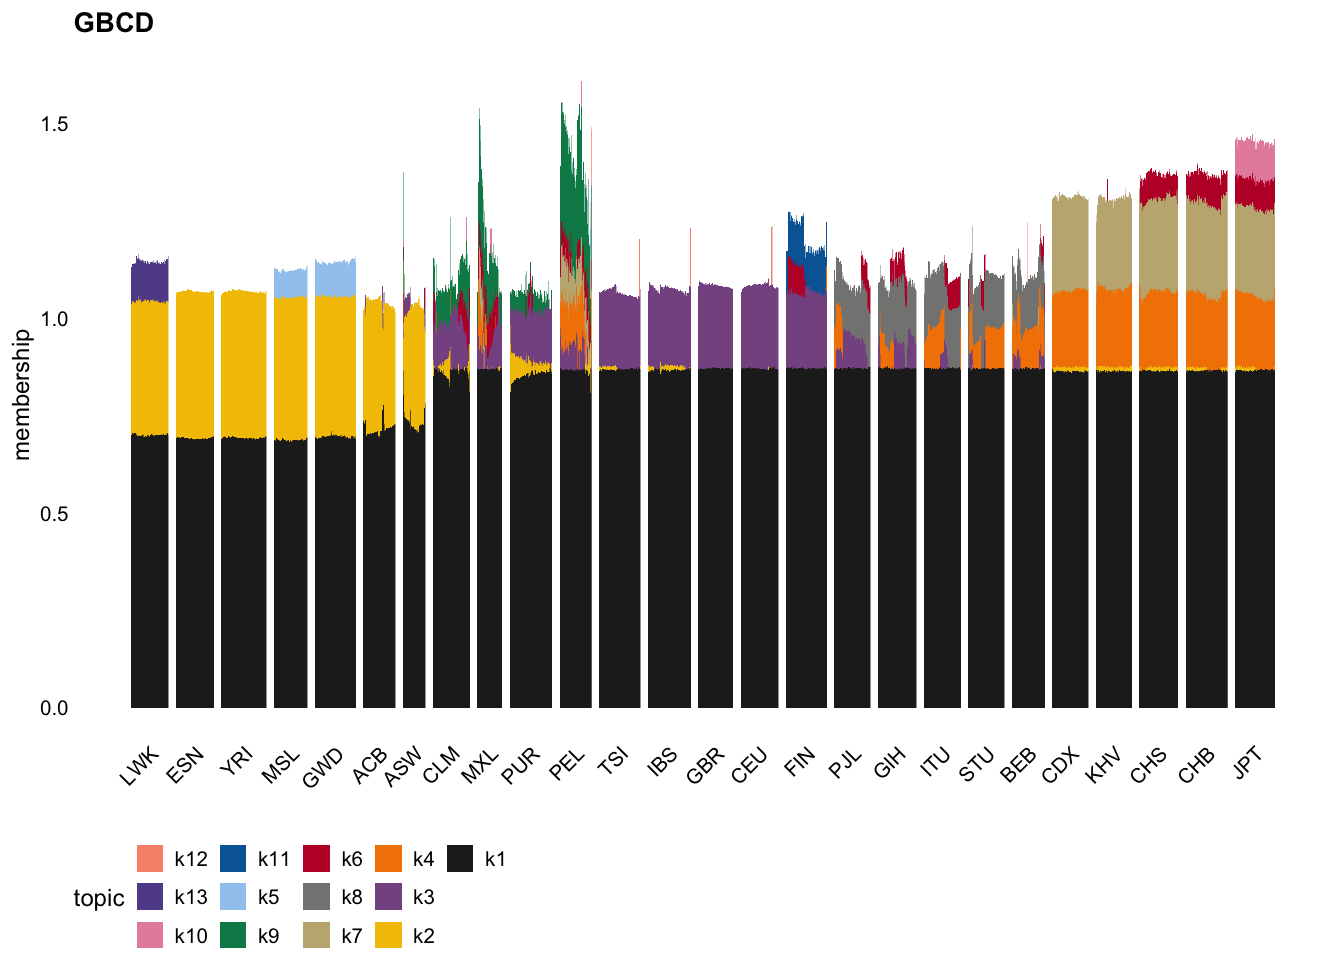
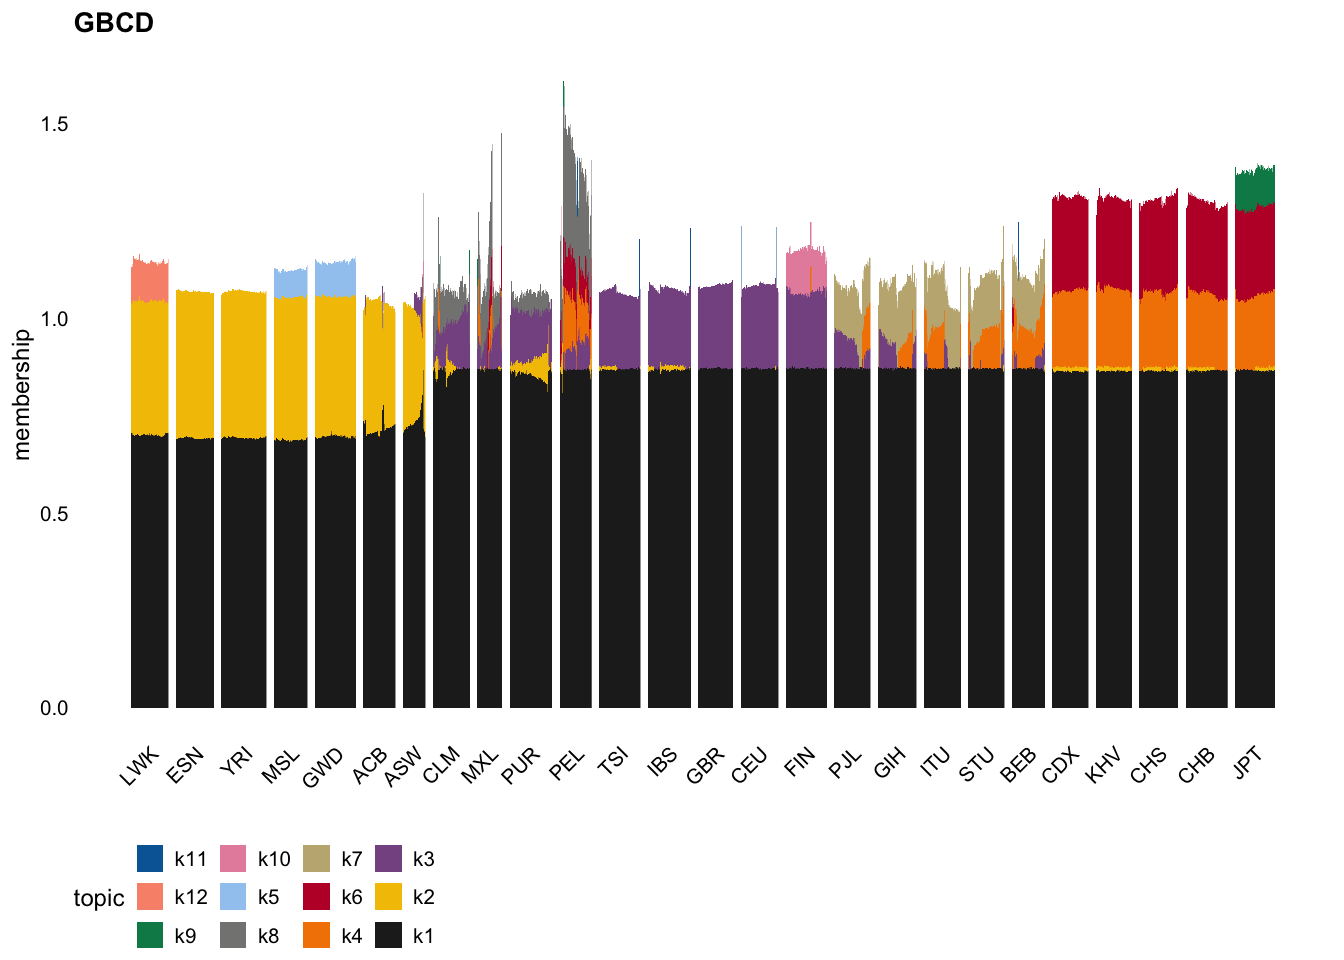
Build site.

diff --git a/docs/simplified_gbcd_analysis.html b/docs/simplified_gbcd_analysis.html
@@ -402,7 +402,7 @@ class="glyphicon glyphicon-ok text-success" aria-hidden="true"></span>
 <div class="tab-content">
 <div id="summary" class="tab-pane fade in active">
 <p>
-<strong>Last updated:</strong> 2025-10-20
+<strong>Last updated:</strong> 2025-10-22
 </p>
 <p>
 <strong>Checks:</strong> <span
@@ -533,15 +533,15 @@ project makes it easier to run your code on other machines.</p>
 <div class="panel panel-default">
 <div class="panel-heading">
 <p class="panel-title">
-<a data-toggle="collapse" data-parent="#workflowr-checks" href="#strongRepositoryversionstrongahrefhttpsgithubcomxxie6tgpanalysistreea68010c3ffef99cbb21337def9961454749fa0a4targetblanka68010ca">
+<a data-toggle="collapse" data-parent="#workflowr-checks" href="#strongRepositoryversionstrongahrefhttpsgithubcomxxie6tgpanalysistreeffecc49f3653eeba7e7cff140d51e98068eaa15etargetblankffecc49a">
 <span class="glyphicon glyphicon-ok text-success"
 aria-hidden="true"></span> <strong>Repository version:</strong>
-<a href="https://github.com/xxie6/tgp_analysis/tree/a68010c3ffef99cbb21337def9961454749fa0a4" target="_blank">a68010c</a>
+<a href="https://github.com/xxie6/tgp_analysis/tree/ffecc49f3653eeba7e7cff140d51e98068eaa15e" target="_blank">ffecc49</a>
 </a>
 </p>
 </div>
 <div
[2 lines of base64/hex data omitted]
 class="panel-collapse collapse">
 <div class="panel-body">
 <p>
@@ -551,7 +551,7 @@ reproducibility.
 </p>
 <p>
 The results in this page were generated with repository version
-<a href="https://github.com/xxie6/tgp_analysis/tree/a68010c3ffef99cbb21337def9961454749fa0a4" target="_blank">a68010c</a>.
+<a href="https://github.com/xxie6/tgp_analysis/tree/ffecc49f3653eeba7e7cff140d51e98068eaa15e" target="_blank">ffecc49</a>.
 See the <em>Past versions</em> tab to see a history of the changes made
 to the R Markdown and HTML files.
 </p>
@@ -617,6 +617,40 @@ Message
 </tr>
 </thead>
 <tbody>
+<tr>
+<td>
+Rmd
+</td>
+<td>
+<a href="https://github.com/xxie6/tgp_analysis/blob/ffecc49f3653eeba7e7cff140d51e98068eaa15e/analysis/simplified_gbcd_analysis.Rmd" target="_blank">ffecc49</a>
+</td>
+<td>
+Annie Xie
+</td>
+<td>
+2025-10-22
+</td>
+<td>
+Update simplified gbcd analysis
+</td>
+</tr>
+<tr>
+<td>
+html
+</td>
+<td>
+<a href="https://rawcdn.githack.com/xxie6/tgp_analysis/1abc1a3a71542274fd5498a89f54d2952a497a19/docs/simplified_gbcd_analysis.html" target="_blank">1abc1a3</a>
+</td>
+<td>
+Annie Xie
+</td>
+<td>
+2025-10-20
+</td>
+<td>
+Build site.
+</td>
+</tr>
 <tr>
 <td>
 Rmd
@@ -875,7 +909,44 @@ tgp_cov_fit_scaled_F &lt;- tgp_cov_fit_scaled$F %*% diag(sqrt(tgp_cov_fit_scaled
 factor_correlations &lt;- diag(cor(tgp_cov_fit_scaled_L, tgp_cov_fit_scaled_F))
 hist(factor_correlations, main = &quot;Histogram of Correlations&quot;, xlab = &#39;Correlations&#39;)</code></pre>
 <p><img src="figure/simplified_gbcd_analysis.Rmd/filter_factors-1.png" width="672" style="display: block; margin: auto;" /></p>
-<pre class="r"><code>factor_keep &lt;- factor_correlations &gt; 0.5</code></pre>
+<p>
+<button type="button" class="btn btn-default btn-xs btn-workflowr btn-workflowr-fig" data-toggle="collapse" data-target="#fig-filter_factors-1">
+Past versions of filter_factors-1.png
+</button>
+</p>
+<div id="fig-filter_factors-1" class="collapse">
+<div class="table-responsive">
+<table class="table table-condensed table-hover">
+<thead>
+<tr>
+<th>
+Version
+</th>
+<th>
+Author
+</th>
+<th>
+Date
+</th>
+</tr>
+</thead>
+<tbody>
+<tr>
+<td>
+<a href="https://github.com/xxie6/tgp_analysis/blob/1abc1a3a71542274fd5498a89f54d2952a497a19/docs/figure/simplified_gbcd_analysis.Rmd/filter_factors-1.png" target="_blank">1abc1a3</a>
+</td>
+<td>
+Annie Xie
+</td>
+<td>
+2025-10-20
+</td>
+</tr>
+</tbody>
+</table>
+</div>
+</div>
+<pre class="r"><code>factor_keep &lt;- factor_correlations &gt; 0.8</code></pre>
 <pre class="r"><code>tgp_cov_fit_filtered_scaled_L &lt;- tgp_cov_fit_scaled_L[, factor_keep]</code></pre>
 </div>
 <div id="visualizing-the-results" class="section level1">
@@ -894,32 +965,32 @@ p1 &lt;- structure_plot(L,grouping = tgp_meta$pop,
                      colors = factor_colors,
                      gap = 16,verbose = FALSE) +
   labs(y = &quot;membership&quot;,title = &quot;GBCD&quot;)</code></pre>
-<pre><code>Running tsne on 77 x 13 matrix.</code></pre>
-<pre><code>Running tsne on 80 x 13 matrix.</code></pre>
-<pre><code>Running tsne on 94 x 13 matrix.</code></pre>
-<pre><code>Running tsne on 70 x 13 matrix.</code></pre>
-<pre><code>Running tsne on 86 x 13 matrix.</code></pre>
-<pre><code>Running tsne on 67 x 13 matrix.</code></pre>
-<pre><code>Running tsne on 47 x 13 matrix.</code></pre>
-<pre><code>Running tsne on 77 x 13 matrix.</code></pre>
-<pre><code>Running tsne on 52 x 13 matrix.</code></pre>
-<pre><code>Running tsne on 89 x 13 matrix.</code></pre>
-<pre><code>Running tsne on 67 x 13 matrix.</code></pre>
-<pre><code>Running tsne on 86 x 13 matrix.</code></pre>
-<pre><code>Running tsne on 90 x 13 matrix.</code></pre>
-<pre><code>Running tsne on 73 x 13 matrix.</code></pre>
-<pre><code>Running tsne on 79 x 13 matrix.</code></pre>
-<pre><code>Running tsne on 86 x 13 matrix.</code></pre>
-<pre><code>Running tsne on 75 x 13 matrix.</code></pre>
-<pre><code>Running tsne on 81 x 13 matrix.</code></pre>
-<pre><code>Running tsne on 77 x 13 matrix.</code></pre>
-<pre><code>Running tsne on 75 x 13 matrix.</code></pre>
-<pre><code>Running tsne on 69 x 13 matrix.</code></pre>
-<pre><code>Running tsne on 76 x 13 matrix.</code></pre>
-<pre><code>Running tsne on 75 x 13 matrix.</code></pre>
-<pre><code>Running tsne on 81 x 13 matrix.</code></pre>
-<pre><code>Running tsne on 88 x 13 matrix.</code></pre>
-<pre><code>Running tsne on 83 x 13 matrix.</code></pre>
+<pre><code>Running tsne on 77 x 12 matrix.</code></pre>
+<pre><code>Running tsne on 80 x 12 matrix.</code></pre>
+<pre><code>Running tsne on 94 x 12 matrix.</code></pre>
+<pre><code>Running tsne on 70 x 12 matrix.</code></pre>
+<pre><code>Running tsne on 86 x 12 matrix.</code></pre>
+<pre><code>Running tsne on 67 x 12 matrix.</code></pre>
+<pre><code>Running tsne on 47 x 12 matrix.</code></pre>
+<pre><code>Running tsne on 77 x 12 matrix.</code></pre>
+<pre><code>Running tsne on 52 x 12 matrix.</code></pre>
+<pre><code>Running tsne on 89 x 12 matrix.</code></pre>
+<pre><code>Running tsne on 67 x 12 matrix.</code></pre>
+<pre><code>Running tsne on 86 x 12 matrix.</code></pre>
+<pre><code>Running tsne on 90 x 12 matrix.</code></pre>
+<pre><code>Running tsne on 73 x 12 matrix.</code></pre>
+<pre><code>Running tsne on 79 x 12 matrix.</code></pre>
+<pre><code>Running tsne on 86 x 12 matrix.</code></pre>
+<pre><code>Running tsne on 75 x 12 matrix.</code></pre>
+<pre><code>Running tsne on 81 x 12 matrix.</code></pre>
+<pre><code>Running tsne on 77 x 12 matrix.</code></pre>
+<pre><code>Running tsne on 75 x 12 matrix.</code></pre>
+<pre><code>Running tsne on 69 x 12 matrix.</code></pre>
+<pre><code>Running tsne on 76 x 12 matrix.</code></pre>
+<pre><code>Running tsne on 75 x 12 matrix.</code></pre>
+<pre><code>Running tsne on 81 x 12 matrix.</code></pre>
+<pre><code>Running tsne on 88 x 12 matrix.</code></pre>
+<pre><code>Running tsne on 83 x 12 matrix.</code></pre>
 <pre><code>Warning: `aes_string()` was deprecated in ggplot2 3.0.0.
 ℹ Please use tidy evaluation idioms with `aes()`.
 ℹ See also `vignette(&quot;ggplot2-in-packages&quot;)` for more information.
@@ -955,6 +1026,17 @@ Date
 <tbody>
 <tr>
 <td>
+<a href="https://github.com/xxie6/tgp_analysis/blob/1abc1a3a71542274fd5498a89f54d2952a497a19/docs/figure/simplified_gbcd_analysis.Rmd/structure_plot_L-1.png" target="_blank">1abc1a3</a>
+</td>
+<td>
+Annie Xie
+</td>
+<td>
+2025-10-20
+</td>
+</tr>
+<tr>
+<td>
 <a href="https://github.com/xxie6/tgp_analysis/blob/6114ba2739c81ab24efe3d77045023e6145b3de1/docs/figure/simplified_gbcd_analysis.Rmd/structure_plot_L-1.png" target="_blank">6114ba2</a>
 </td>
 <td>
@@ -986,32 +1068,32 @@ our structure plot:</p>
                      colors = factor_colors[-1],
                      gap = 16,verbose = FALSE) +
   labs(y = &quot;membership&quot;,title = &quot;GBCD&quot;)</code></pre>
-<pre><code>Running tsne on 82 x 12 matrix.</code></pre>
-<pre><code>Running tsne on 84 x 12 matrix.</code></pre>
-<pre><code>Running tsne on 85 x 12 matrix.</code></pre>
-<pre><code>Running tsne on 65 x 12 matrix.</code></pre>
-<pre><code>Running tsne on 94 x 12 matrix.</code></pre>
-<pre><code>Running tsne on 75 x 12 matrix.</code></pre>
-<pre><code>Running tsne on 45 x 12 matrix.</code></pre>
-<pre><code>Running tsne on 81 x 12 matrix.</code></pre>
-<pre><code>Running tsne on 51 x 12 matrix.</code></pre>
-<pre><code>Running tsne on 80 x 12 matrix.</code></pre>
-<pre><code>Running tsne on 66 x 12 matrix.</code></pre>
-<pre><code>Running tsne on 88 x 12 matrix.</code></pre>
-<pre><code>Running tsne on 90 x 12 matrix.</code></pre>
-<pre><code>Running tsne on 72 x 12 matrix.</code></pre>
-<pre><code>Running tsne on 81 x 12 matrix.</code></pre>
-<pre><code>Running tsne on 79 x 12 matrix.</code></pre>
-<pre><code>Running tsne on 77 x 12 matrix.</code></pre>
-<pre><code>Running tsne on 83 x 12 matrix.</code></pre>
-<pre><code>Running tsne on 85 x 12 matrix.</code></pre>
-<pre><code>Running tsne on 74 x 12 matrix.</code></pre>
-<pre><code>Running tsne on 70 x 12 matrix.</code></pre>
-<pre><code>Running tsne on 74 x 12 matrix.</code></pre>
-<pre><code>Running tsne on 83 x 12 matrix.</code></pre>
-<pre><code>Running tsne on 79 x 12 matrix.</code></pre>
-<pre><code>Running tsne on 76 x 12 matrix.</code></pre>
-<pre><code>Running tsne on 81 x 12 matrix.</code></pre>
+<pre><code>Running tsne on 82 x 11 matrix.</code></pre>
+<pre><code>Running tsne on 84 x 11 matrix.</code></pre>
+<pre><code>Running tsne on 85 x 11 matrix.</code></pre>
+<pre><code>Running tsne on 65 x 11 matrix.</code></pre>
+<pre><code>Running tsne on 94 x 11 matrix.</code></pre>
+<pre><code>Running tsne on 75 x 11 matrix.</code></pre>
+<pre><code>Running tsne on 45 x 11 matrix.</code></pre>
+<pre><code>Running tsne on 81 x 11 matrix.</code></pre>
+<pre><code>Running tsne on 51 x 11 matrix.</code></pre>
+<pre><code>Running tsne on 80 x 11 matrix.</code></pre>
+<pre><code>Running tsne on 66 x 11 matrix.</code></pre>
+<pre><code>Running tsne on 88 x 11 matrix.</code></pre>
+<pre><code>Running tsne on 90 x 11 matrix.</code></pre>
+<pre><code>Running tsne on 72 x 11 matrix.</code></pre>
+<pre><code>Running tsne on 81 x 11 matrix.</code></pre>
+<pre><code>Running tsne on 79 x 11 matrix.</code></pre>
+<pre><code>Running tsne on 77 x 11 matrix.</code></pre>
+<pre><code>Running tsne on 83 x 11 matrix.</code></pre>
+<pre><code>Running tsne on 85 x 11 matrix.</code></pre>
+<pre><code>Running tsne on 74 x 11 matrix.</code></pre>
+<pre><code>Running tsne on 70 x 11 matrix.</code></pre>
+<pre><code>Running tsne on 74 x 11 matrix.</code></pre>
+<pre><code>Running tsne on 83 x 11 matrix.</code></pre>
+<pre><code>Running tsne on 79 x 11 matrix.</code></pre>
+<pre><code>Running tsne on 76 x 11 matrix.</code></pre>
+<pre><code>Running tsne on 81 x 11 matrix.</code></pre>
 <pre class="r"><code>p2</code></pre>
 <p><img src="figure/simplified_gbcd_analysis.Rmd/structure_plot_wout_k1-1.png" width="672" style="display: block; margin: auto;" /></p>
 <p>
@@ -1036,6 +1118,17 @@ Date
 </tr>
 </thead>
 <tbody>
+<tr>
+<td>
+<a href="https://github.com/xxie6/tgp_analysis/blob/1abc1a3a71542274fd5498a89f54d2952a497a19/docs/figure/simplified_gbcd_analysis.Rmd/structure_plot_wout_k1-1.png" target="_blank">1abc1a3</a>
+</td>
+<td>
+Annie Xie
+</td>
+<td>
+2025-10-20
+</td>
+</tr>
 <tr>
 <td>
 <a href="https://github.com/xxie6/tgp_analysis/blob/6114ba2739c81ab24efe3d77045023e6145b3de1/docs/figure/simplified_gbcd_analysis.Rmd/structure_plot_wout_k1-1.png" target="_blank">6114ba2</a>
@@ -1063,7 +1156,7 @@ Annie Xie
 </div>
 </div>
 <p>From this plot, we can interpret the components of our decomposition.
-For example, factors 2, 7, and 8 (“k2”, “k7”, and “k8” in the plot)
+For example, factors 2, 6, and 7 (“k2”, “k6”, and “k7” in the plot)
 primarily capture the Africa super-population, East Asia
 super-population, and South Asian super-population, respectively. Other
 factors highlight components shared across super-populations. For
@@ -1073,23 +1166,21 @@ super-populations.</p>
 populations. For example, if we take a closer look at Japanese in Tokyo,
 Japan (JPT), we see that most of the components match up with those of
 the other East Asian populations. However, Japan has an additional
-component, factor 10, which differentiates it from the other East Asian
+component, factor 9, which differentiates it from the other East Asian
 populations. Another example is Finnish in Finland (FIN). Finland
 contains one component, factor 3, which is shared with other European
-populations. Additionally, it contains a unique component, factor 11.
+populations. Additionally, it contains a unique component, factor 10.
 Another interesting example is Peruvian from Lima, Peru (PEL). Peru
-contains one component, factor 9, which primarily corresponds to the
+contains one component, factor 8, which primarily corresponds to the
 Americas super-population. However, it also contains other components,
-factors 4 and 7, which are shared with South Asian and/or East Asian
+factors 4 and 6, which are shared with South Asian and/or East Asian
 populations. Furthermore, it contains a component, factor 3, that is
 shared with Europe and other populations in the Americas
 super-population.</p>
 <p>Interpretations of others factors: factor 5 implies a shared
 component between two African populations, Mende in Sierra Leone and
-Gambian in Western Division - Mandinka. Factor 13 corresponds to a
-unique component for the Luhya people of Webuye, Kenya. Factor 6
-represents a shared component between Han Chinese in Beijing, Southern
-Han Chinese, and Japanese in Tokyo, Japan.</p>
+Gambian in Western Division - Mandinka. Factor 12 corresponds to a
+unique component for the Luhya people of Webuye, Kenya.</p>
 </div>
 <div id="session-info" class="section level1">
 <h1>Session Info</h1>
